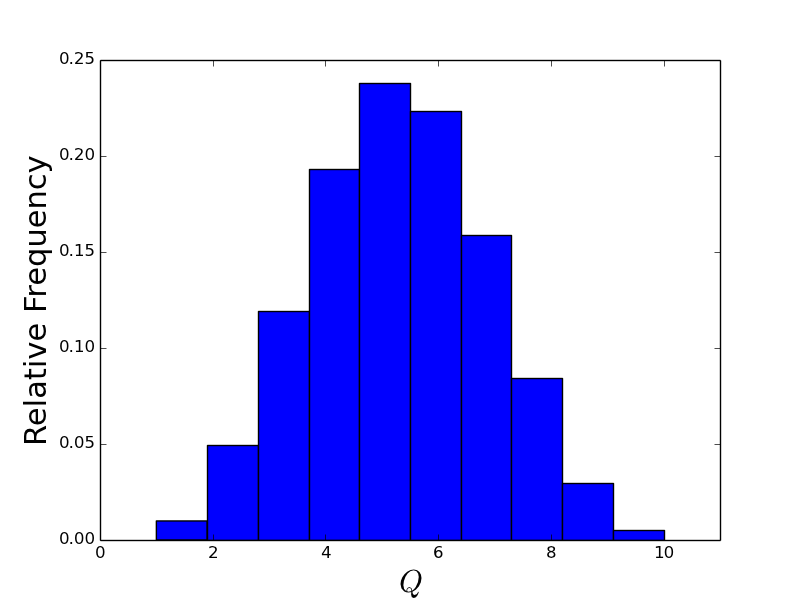
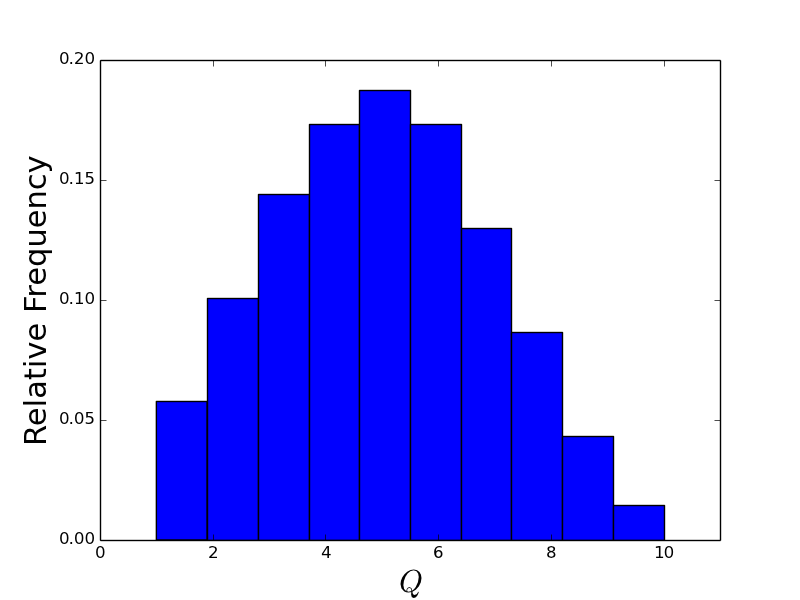
Q questions updated in python scripts

diff --git a/rio2definitions.py b/rio2definitions.py
@@ -56,110 +56,65 @@ def ask_yesno_question(Q_old,question,options,answer=None,text=True):
    
     return Q
 
-def ask_nature_question(Q_old, inputanswer=None,text=True):
-    
-    question = "What is the nature of the signal? (select one of the 7 options) \n\n"
-    
-    question = question+"------------------------\n"
-    question = question+"Manufactured Artifact:\n"
-    question = question+"------------------------\n"
-    question = question+"(1) Small Probe / Pieces of Alien Technology\n"
-    question = question+"(2) Spacecraft capable of carrying macroscopic organisms\n"
-    question = question+"(3) Megastructure\n"
-    question = question+"------------------------\n"
-    question = question+"Transmission: \n"
-    question = question+"------------------------\n"
-    question = question+"(4) Electromagnetic (radio, visible or other form of light)\n"
-    question = question+"(5) Neutrino or other high energy particle\n"
-    question = question+"(6) Gravitational Waves\n"
-    
-    question = question+"------------------------\n"
-    question = question+"Close Encounter \n"
-    question = question+"------------------------\n"
-    question = question+"(7) Physical Encounter with alien(s)\n"
-      
-    options = {
-        1: 1, # Small probe / pieces of alien tech
-        2: 2, # Larger spacecraft
-        3: 3, # Megastructure
-        4: 1, # EM transmission
-        5: 2, # Neutrino transmission
-        6: 3,  # GW transmission
-        7: 4, # Physical encounter
-    }
-    
-    return ask_question(Q_old,question,options,answer=inputanswer,text=text)
-
-
-
-
-def ask_content_question(Q_old,inputanswer=None,text=True):
-
-    question = "Does the signal contain clear evidence of an encoded message or data? (y/n)"
-    
-    options = {
-        "y": 1,
-        "Y": 1, 
-        "n": 0, 
-        "N": 0, 
-    }
-      
-    return ask_yesno_question(Q_old,question,options,answer=inputanswer,text=text)
-    
-def ask_direction_question(Q_old,inputanswer=None,text=True):
-
-    question = "Has the origin of the signal been accurately located (either on the sky, or nearby)? (y/n)"
-    
-    options = {
-        "y": 1,
-        "Y": 1, 
-        "n": 0, 
-        "N": 0, 
-    }
-      
-    return ask_yesno_question(Q_old,question,options,answer=inputanswer,text=text)
-       
-def ask_distance_question(Q_old, inputanswer=None,text=True):
-    
-    question = "Has the distance to the signal been accurately determined? (y/n)"
-    
-    options = {
-        "y": 1,
-        "Y": 1, 
-        "n": 0, 
-        "N": 0, 
-    }
-      
-    return ask_yesno_question(Q_old,question,options,answer=inputanswer,text=text)
-           
-
 def ask_where_question(Q_old,inputanswer=None,text=True):
 
-    question = "What is the estimated distance to the signal?\n"
-    question = question+"(1) Within the Solar System \n"
-    question = question+"(2) Within the Galaxy \n"
-    question = question+"(3) Beyond the Galaxy \n"
-    question = question+"(4) Unknown\n"
+    question = "What is the estimated light travel time to the signal?\n"
+    question = question+"(1) Less than a day (i.e. within the Solar System) \n"
+    question = question+"(2) days to years (i.e. about as close as the nearest star) \n"
+    question = question+"(3) years to decades (in the solar neighbourhood) \n"
+    question = question+"(4) Centuries to millennia (in the Galaxy)"
+    question = question+"(4) Longer/Unknown\n"
     
     options = {
-                1:3, # Within the Solar System
-                2:2, # Within the Galaxy
-                3:1, # Outside the Galaxy
-                4:0, #unknown
+                1:4, # Within the Solar System
+                2:3, # nearest star
+                3:2, # solar neighborhood
+                4:1, # in the Galaxy 
+                5:0, #unknown
     }
    
     return ask_question(Q_old,question,options,answer=inputanswer,text=text)
     
+def ask_comm_question(Q_old,inputanswer=None,text=True):
+    question = "What are the prospects for communication with the signal?"
+    question = question+"(1) We are in active two way communication \n"
+    question = question+"(2) We could respond using the same medium/encoding as the signal within 20 years: \n"
+    question = question+"(3) We can understand the signal or we have artifacts we can study \n"
+    question = question+"(4) No communication is taking place \n"
     
-def ask_all_Q_questions(text=True,natureanswer=None,directanswer=None,contentanswer=None,distanceanswer=None,whereanswer=None):
+    options = {
+                1:4, # Two way
+                2:3, # could respond
+                3:2, # can understand
+                4:0, # no communication
+    }
+   
+    return ask_question(Q_old,question,options,answer=inputanswer,text=text)
+    
+def ask_aware_question(Q_old,inputanswer=None,text=True):
+    question = "Is the sender aware of humanity and its technology?"
+    question = question+"(1) Yes, certainly - the signal is intended for us, specifically: \n"
+    question = question+"(2) Possibly, but there is little or no evidence for this: \n"
+    question = question+"(3) Almost certainly not (e.g. they are too far away):  \n"
+    question = question+"(4) Senders are apparently extinct \n"
+    
+    options = {
+                1:2, # Two way
+                2:1, # could respond
+                3:0, # can understand
+                4:-1, # no communication
+    }
+   
+    return ask_question(Q_old,question,options,answer=inputanswer,text=text)
+    
+
+def ask_all_Q_questions(text=True,whereanswer=None,commanswer=None,awareanswer=None):
     
     Q=0
     
-    Q=ask_nature_question(Q, inputanswer=natureanswer,text=text)
-    Q=ask_content_question(Q, inputanswer=contentanswer,text=text)
-    Q=ask_direction_question(Q, inputanswer=directanswer,text=text)
-    Q=ask_distance_question(Q, inputanswer=distanceanswer,text=text)
-    Q=ask_where_question(Q, inputanswer=whereanswer,text=text)
+    Q = ask_where_question(Q,inputanswer=whereanswer,text=text)
+    Q = ask_comm_question(Q,inputanswer=commanswer,text=text)
+    Q = ask_aware_question(Q,inputanswer=awareanswer,text=text)
 
     return Q
 

diff --git a/riodistribution.py b/riodistribution.py
@@ -5,6 +5,8 @@
 import rio2definitions as d
 import matplotlib.pyplot as plt
 import numpy as np
+from scipy.stats import norm
+import matplotlib.mlab as mlab
 
 title = '\t\t\t RIO SCALE 2.0 Distribution \n\t\t\t -------------------------'
 
@@ -15,22 +17,17 @@ print '-------------------------'
 
 Qvalues = []
 
-natureanswers = [1,2,3,4,5,6,7]
-directanswers = ["y","n"]
-contentanswers = ["y","n"]
-distanceanswers = ["y","n"]
-whereanswers = [1,2,3,4]
+whereanswers = [1,2,3,4,5]
+commanswers = [1,2,3,4]
+awareanswers = [1,2,3,4]
 
 
-for nat in natureanswers:
-    for content in contentanswers:
-            for direc in directanswers:
-                for dist in distanceanswers:
-                    for wh in whereanswers:
+for w in whereanswers:
+    for c in commanswers:
+        for a in awareanswers:
 
-                        Q =d.ask_all_Q_questions(text=False,natureanswer=nat,contentanswer=content,directanswer=direc,distanceanswer=dist, whereanswer=wh)
-
-                        Qvalues.append(Q)
+            Q =d.ask_all_Q_questions(text=False,whereanswer=w,commanswer=c,awareanswer=a)
+            Qvalues.append(Q)
 
 print 'Computing all possible values of delta'
 print '-------------------------'
@@ -44,7 +41,6 @@ deltavalues = []
 certaintyanswers=personanswers=instrumentanswers=hoaxanswers=["y","n"] 
 amenableanswers=buildersanswers=[0,1,2,3]
 communityanswers = range(10)
-print communityanswers
 
 for cert in certaintyanswers:
     for am in amenableanswers:
